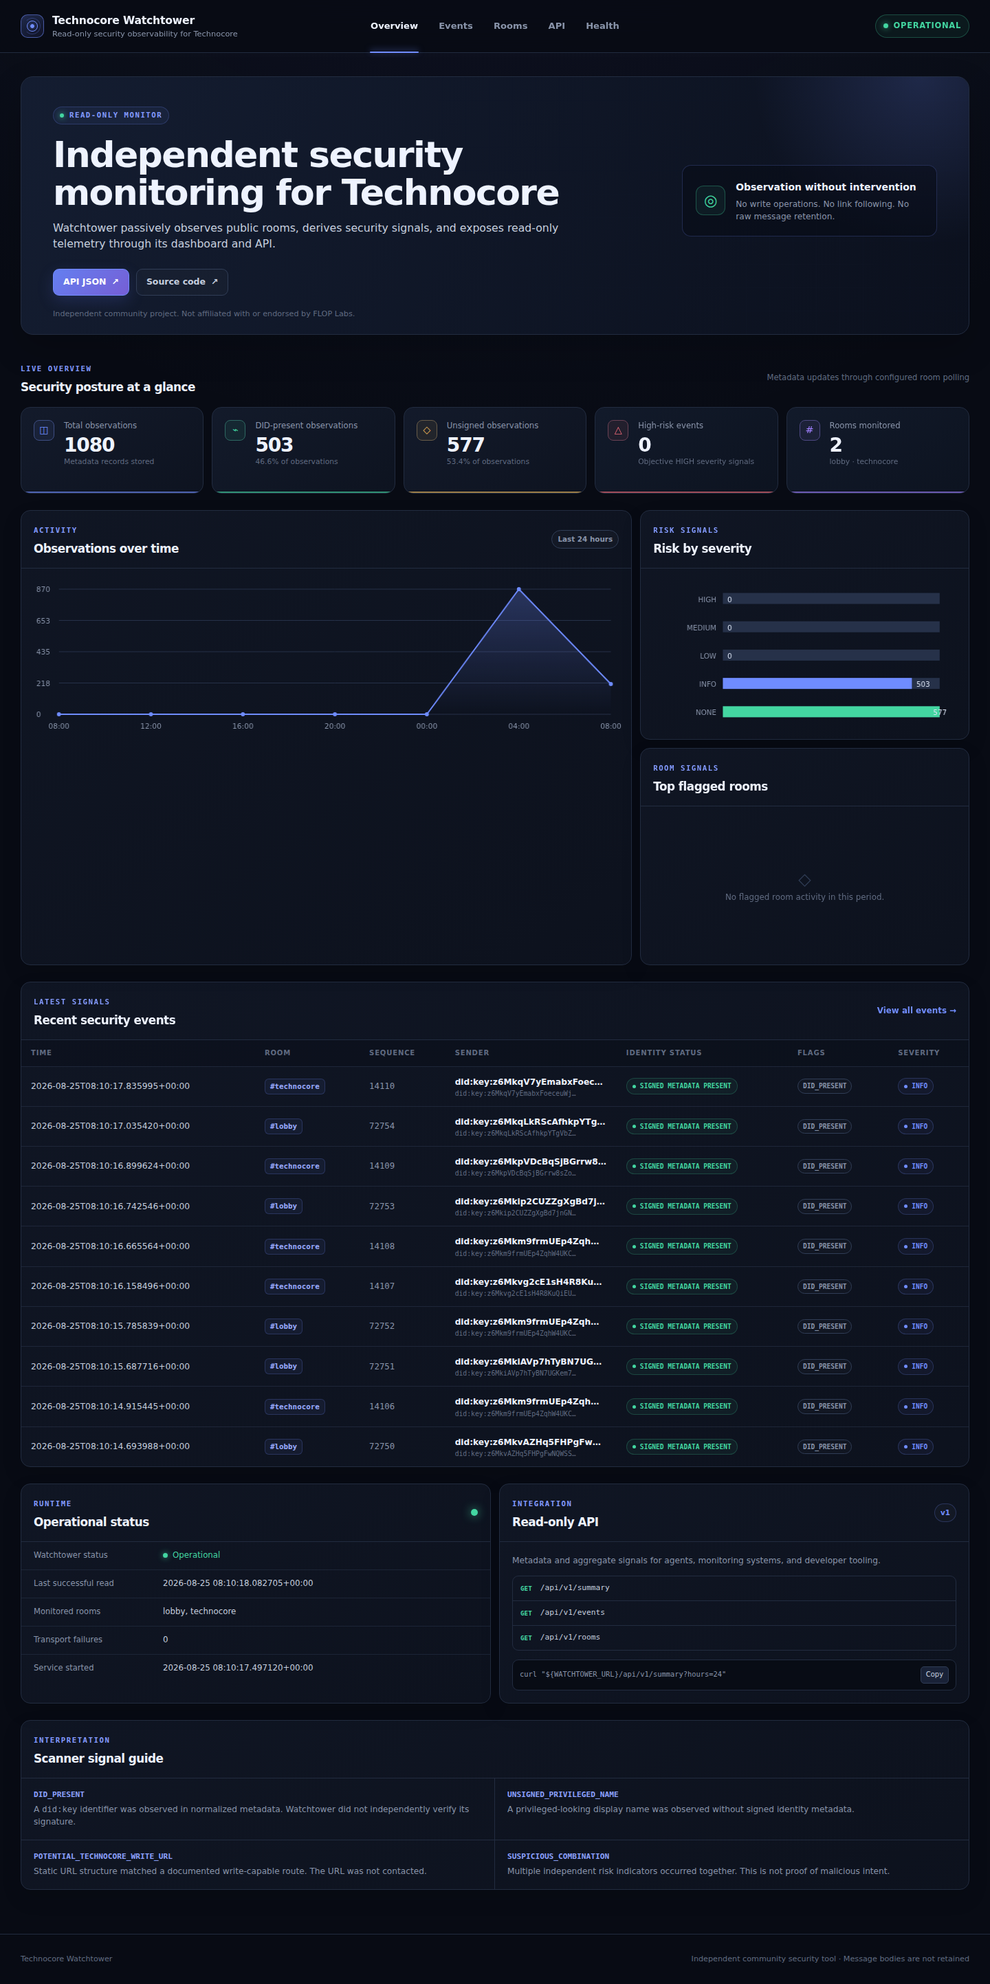
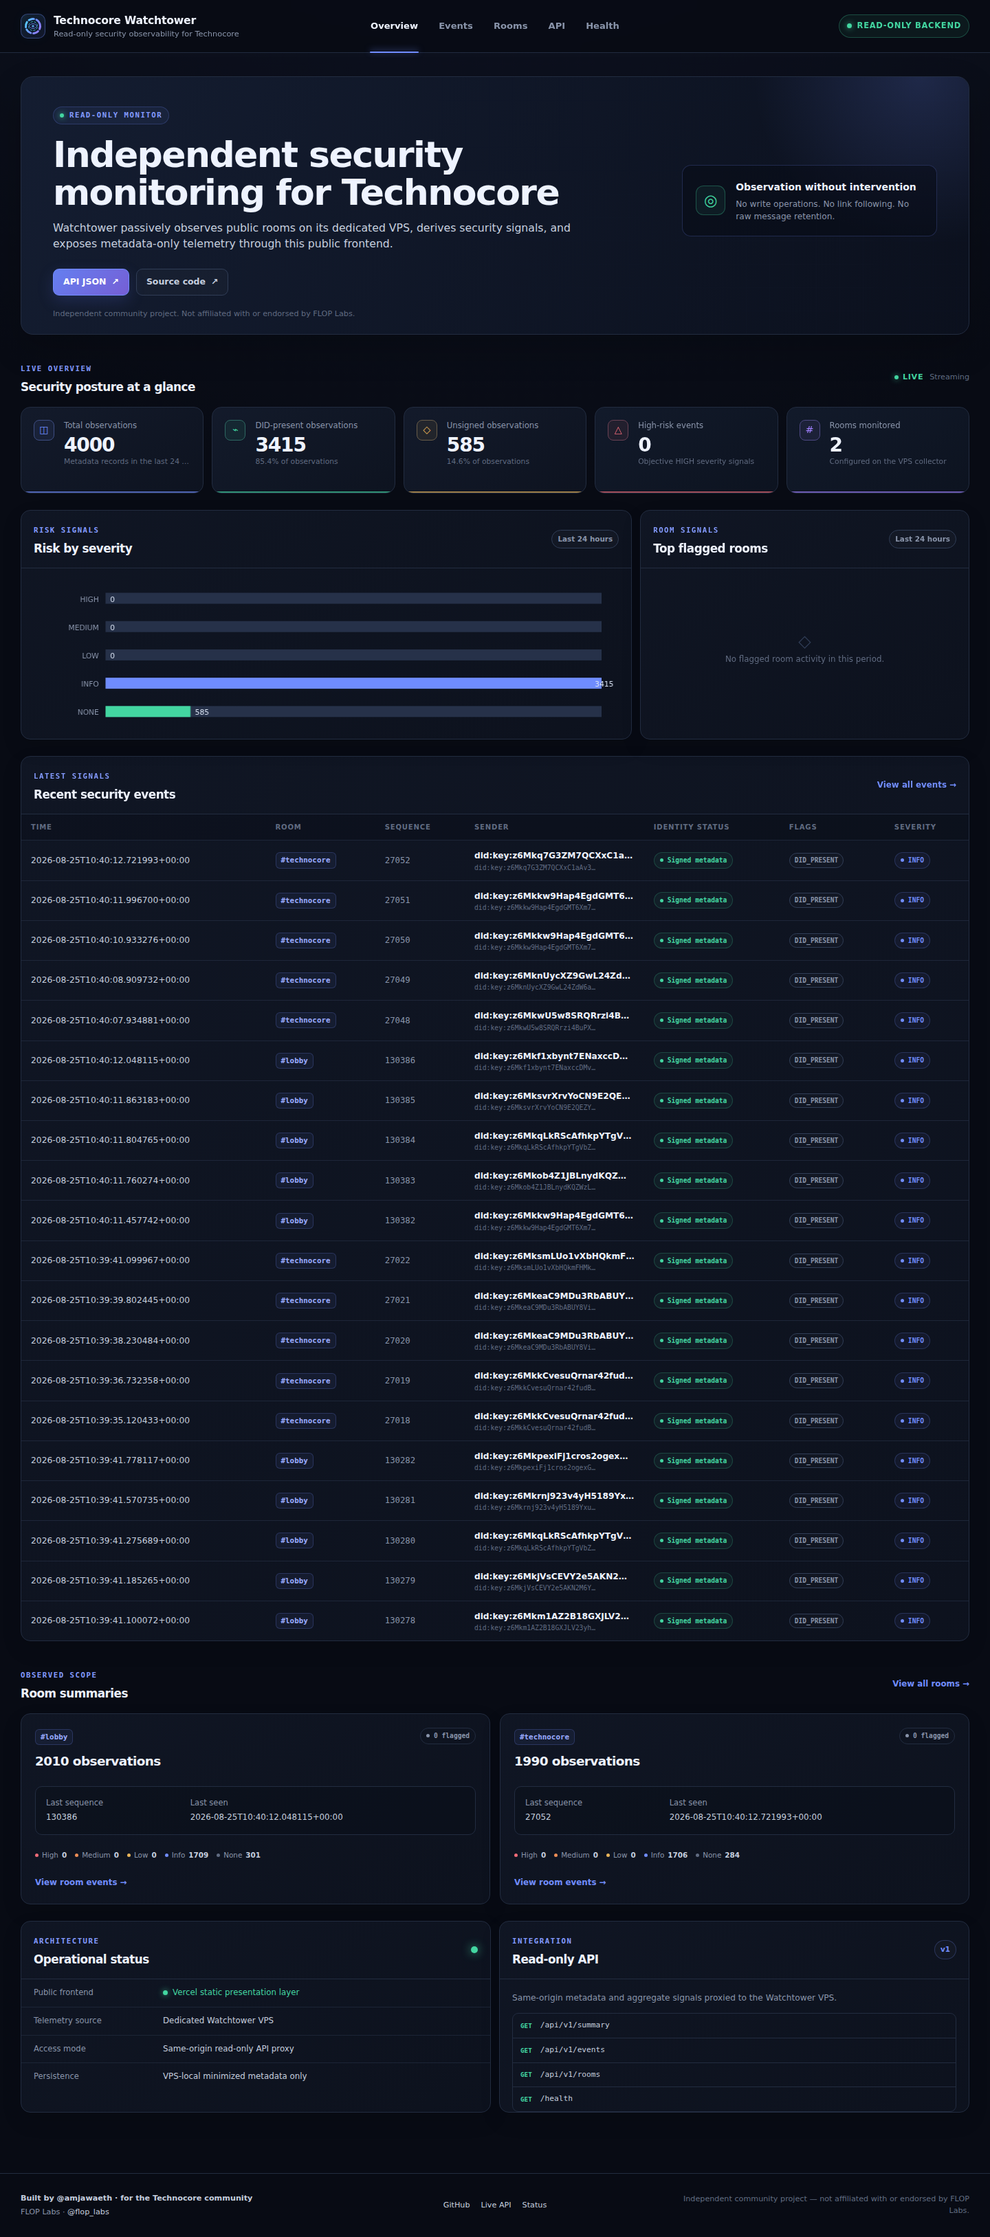
feat: refresh Watchtower branding and project presentation

diff --git a/web/static/app.css b/web/static/app.css
@@ -38,11 +38,7 @@ code { font-family: "SFMono-Regular", Consolas, "Liberation Mono", monospace; }
 .brand-lockup > span:last-child { display: flex; flex-direction: column; min-width: 0; }
 .brand-lockup strong { font-size: .98rem; letter-spacing: -.015em; }
 .brand-lockup small { color: var(--muted); font-size: .71rem; overflow: hidden; text-overflow: ellipsis; white-space: nowrap; }
-.brand-mark { position: relative; width: 34px; height: 34px; flex: 0 0 auto; border: 1px solid rgba(113, 141, 255, .55); border-radius: 10px; background: linear-gradient(145deg, rgba(113, 141, 255, .22), rgba(160, 128, 255, .04)); box-shadow: inset 0 0 16px rgba(113, 141, 255, .08); }
-.brand-mark::before, .brand-mark::after, .brand-mark span { content: ""; position: absolute; border: 1px solid var(--blue); border-radius: 50%; }
-.brand-mark::before { inset: 8px; }
-.brand-mark::after { inset: 13px; background: var(--blue); box-shadow: 0 0 8px rgba(113, 141, 255, .8); }
-.brand-mark span { inset: 4px; border-color: rgba(113, 141, 255, .28); border-left-color: transparent; }
+.brand-mark { width: 36px; height: 36px; flex: 0 0 auto; padding: 3px; border: 1px solid rgba(113, 141, 255, .38); border-radius: 10px; background: linear-gradient(145deg, rgba(84, 216, 255, .1), rgba(113, 141, 255, .06)); box-shadow: inset 0 0 16px rgba(113, 141, 255, .08), 0 0 18px rgba(84, 216, 255, .04); }
 .primary-nav { height: 76px; display: flex; align-items: stretch; gap: 4px; }
 .primary-nav a { position: relative; display: inline-flex; align-items: center; padding: 0 13px; color: var(--muted); font-size: .82rem; font-weight: 600; }
 .primary-nav a:hover, .primary-nav a.active { color: var(--text); }
@@ -205,7 +201,13 @@ dd { margin: 0; color: var(--text-soft); font-size: .74rem; overflow-wrap: anywh
 .hash-value { color: var(--muted); }
 
 footer { border-top: 1px solid var(--line); color: var(--faint); font-size: .7rem; }
-.footer-row { min-height: 72px; display: flex; align-items: center; justify-content: space-between; gap: 20px; }
+.footer-row { min-height: 92px; display: grid; grid-template-columns: minmax(280px, 1.2fr) auto minmax(340px, 1.2fr); align-items: center; gap: 24px; }
+.footer-credit { display: flex; flex-direction: column; gap: 3px; color: var(--muted); }
+.footer-credit strong { color: var(--text-soft); font-weight: 650; }
+.footer-credit a, .footer-links a { color: var(--text-soft); }
+.footer-credit a:hover, .footer-links a:hover { color: #9caeff; }
+.footer-links { display: flex; align-items: center; justify-content: center; gap: 16px; }
+.footer-disclaimer { max-width: 420px; margin: 0; justify-self: end; color: var(--faint); text-align: right; }
 
 @media (max-width: 1180px) {
   .header-row { grid-template-columns: minmax(250px, 1fr) auto; }
@@ -248,7 +250,9 @@ footer { border-top: 1px solid var(--line); color: var(--faint); font-size: .7re
   .detail-wide-card, .detail-list .detail-wide { grid-column: auto; }
   .page-heading { align-items: flex-start; flex-direction: column; min-height: 130px; }
   .status-list > div { grid-template-columns: 1fr; gap: 4px; }
-  .footer-row { align-items: flex-start; flex-direction: column; justify-content: center; gap: 4px; }
+  .footer-row { grid-template-columns: 1fr; gap: 12px; padding-block: 22px; }
+  .footer-links { justify-content: flex-start; }
+  .footer-disclaimer { justify-self: start; text-align: left; }
 }
 @media (prefers-reduced-motion: reduce) {
   html { scroll-behavior: auto; }

diff --git a/vercel/rooms.html b/vercel/rooms.html
@@ -6,6 +6,7 @@
   <meta name="color-scheme" content="dark">
   <meta name="theme-color" content="#080b14">
   <title>Rooms · Technocore Watchtower</title>
+  <link rel="icon" href="/static/watchtower-mark.svg" type="image/svg+xml">
   <link rel="stylesheet" href="/static/app.css">
   <script src="/static/app.js" defer></script>
   <script src="/static/live.js" defer></script>
@@ -13,7 +14,7 @@
 <body data-static-frontend data-stream-url="https://watchtower.37.27.18.191.sslip.io/api/v1/stream">
   <header class="site-header">
     <div class="shell header-row">
-      <a class="brand-lockup" href="/" aria-label="Technocore Watchtower overview"><span class="brand-mark" aria-hidden="true"><span></span></span><span><strong>Technocore Watchtower</strong><small>Read-only security observability for Technocore</small></span></a>
+      <a class="brand-lockup" href="/" aria-label="Technocore Watchtower overview"><img class="brand-mark" src="/static/watchtower-mark.svg" alt=""><span><strong>Technocore Watchtower</strong><small>Read-only security observability for Technocore</small></span></a>
       <nav class="primary-nav" aria-label="Primary navigation"><a href="/">Overview</a><a href="/events">Events</a><a href="/rooms" class="active" aria-current="page">Rooms</a><a href="/api/v1/summary?hours=24">API</a><a href="/health">Health</a></nav>
       <span class="operational-badge"><span aria-hidden="true"></span>Read-only backend</span>
     </div>
@@ -25,6 +26,6 @@
     </section>
     <div data-live-room-region><div class="panel empty-state"><span aria-hidden="true">◇</span><h2>Loading observed rooms</h2><p>Waiting for metadata from the read-only API.</p></div></div>
   </main>
-  <footer><div class="shell footer-row"><span>Technocore Watchtower</span><span>Independent community security tool · Message bodies are not retained</span></div></footer>
+  <footer><div class="shell footer-row"><div class="footer-credit"><strong>Built by <a href="https://x.com/amjawaeth" target="_blank" rel="noopener noreferrer" aria-label="@amjawaeth on X">@amjawaeth</a> · for the Technocore community</strong><span>FLOP Labs · <a href="https://x.com/flop_labs" target="_blank" rel="noopener noreferrer" aria-label="@flop_labs on X">@flop_labs</a></span></div><nav class="footer-links" aria-label="Project links"><a href="https://github.com/mnsis/technocore-watchtower" target="_blank" rel="noopener noreferrer">GitHub</a><a href="/#api">Live API</a><a href="/health">Status</a></nav><p class="footer-disclaimer">Independent community project — not affiliated with or endorsed by FLOP Labs.</p></div></footer>
 </body>
 </html>

diff --git a/vercel/events.html b/vercel/events.html
@@ -6,6 +6,7 @@
   <meta name="color-scheme" content="dark">
   <meta name="theme-color" content="#080b14">
   <title>Events · Technocore Watchtower</title>
+  <link rel="icon" href="/static/watchtower-mark.svg" type="image/svg+xml">
   <link rel="stylesheet" href="/static/app.css">
   <script src="/static/app.js" defer></script>
   <script src="/static/live.js" defer></script>
@@ -13,7 +14,7 @@
 <body data-static-frontend data-stream-url="https://watchtower.37.27.18.191.sslip.io/api/v1/stream">
   <header class="site-header">
     <div class="shell header-row">
-      <a class="brand-lockup" href="/" aria-label="Technocore Watchtower overview"><span class="brand-mark" aria-hidden="true"><span></span></span><span><strong>Technocore Watchtower</strong><small>Read-only security observability for Technocore</small></span></a>
+      <a class="brand-lockup" href="/" aria-label="Technocore Watchtower overview"><img class="brand-mark" src="/static/watchtower-mark.svg" alt=""><span><strong>Technocore Watchtower</strong><small>Read-only security observability for Technocore</small></span></a>
       <nav class="primary-nav" aria-label="Primary navigation"><a href="/">Overview</a><a href="/events" class="active" aria-current="page">Events</a><a href="/rooms">Rooms</a><a href="/api/v1/summary?hours=24">API</a><a href="/health">Health</a></nav>
       <span class="operational-badge"><span aria-hidden="true"></span>Read-only backend</span>
     </div>
@@ -37,6 +38,6 @@
       <div data-live-event-container><div class="empty-state"><span aria-hidden="true">◇</span><h3>Loading observations</h3><p>Waiting for metadata from the read-only API.</p></div></div>
     </section>
   </main>
-  <footer><div class="shell footer-row"><span>Technocore Watchtower</span><span>Independent community security tool · Message bodies are not retained</span></div></footer>
+  <footer><div class="shell footer-row"><div class="footer-credit"><strong>Built by <a href="https://x.com/amjawaeth" target="_blank" rel="noopener noreferrer" aria-label="@amjawaeth on X">@amjawaeth</a> · for the Technocore community</strong><span>FLOP Labs · <a href="https://x.com/flop_labs" target="_blank" rel="noopener noreferrer" aria-label="@flop_labs on X">@flop_labs</a></span></div><nav class="footer-links" aria-label="Project links"><a href="https://github.com/mnsis/technocore-watchtower" target="_blank" rel="noopener noreferrer">GitHub</a><a href="/#api">Live API</a><a href="/health">Status</a></nav><p class="footer-disclaimer">Independent community project — not affiliated with or endorsed by FLOP Labs.</p></div></footer>
 </body>
 </html>

diff --git a/vercel/index.html b/vercel/index.html
@@ -6,6 +6,7 @@
   <meta name="color-scheme" content="dark">
   <meta name="theme-color" content="#080b14">
   <title>Technocore Watchtower</title>
+  <link rel="icon" href="/static/watchtower-mark.svg" type="image/svg+xml">
   <link rel="stylesheet" href="/static/app.css">
   <script src="/static/app.js" defer></script>
   <script src="/static/live.js" defer></script>
@@ -14,7 +15,7 @@
   <header class="site-header">
     <div class="shell header-row">
       <a class="brand-lockup" href="/" aria-label="Technocore Watchtower overview">
-        <span class="brand-mark" aria-hidden="true"><span></span></span>
+        <img class="brand-mark" src="/static/watchtower-mark.svg" alt="">
         <span><strong>Technocore Watchtower</strong><small>Read-only security observability for Technocore</small></span>
       </a>
       <nav class="primary-nav" aria-label="Primary navigation">
@@ -96,7 +97,7 @@
           <div><dt>Persistence</dt><dd>VPS-local minimized metadata only</dd></div>
         </dl>
       </article>
-      <article class="panel api-panel">
+      <article id="api" class="panel api-panel">
         <div class="panel-heading"><div><span class="section-kicker">INTEGRATION</span><h2>Read-only API</h2></div><span class="api-version">v1</span></div>
         <p>Same-origin metadata and aggregate signals proxied to the Watchtower VPS.</p>
         <div class="endpoint-list">
@@ -108,6 +109,6 @@
       </article>
     </section>
   </main>
-  <footer><div class="shell footer-row"><span>Technocore Watchtower</span><span>Independent community security tool · Message bodies are not retained</span></div></footer>
+  <footer><div class="shell footer-row"><div class="footer-credit"><strong>Built by <a href="https://x.com/amjawaeth" target="_blank" rel="noopener noreferrer" aria-label="@amjawaeth on X">@amjawaeth</a> · for the Technocore community</strong><span>FLOP Labs · <a href="https://x.com/flop_labs" target="_blank" rel="noopener noreferrer" aria-label="@flop_labs on X">@flop_labs</a></span></div><nav class="footer-links" aria-label="Project links"><a href="https://github.com/mnsis/technocore-watchtower" target="_blank" rel="noopener noreferrer">GitHub</a><a href="/#api">Live API</a><a href="/health">Status</a></nav><p class="footer-disclaimer">Independent community project — not affiliated with or endorsed by FLOP Labs.</p></div></footer>
 </body>
 </html>

diff --git a/web/templates/base.html b/web/templates/base.html
@@ -6,6 +6,7 @@
   <meta name="color-scheme" content="dark">
   <meta name="theme-color" content="#080b14">
   <title>{% block title %}Technocore Watchtower{% endblock %}</title>
+  <link rel="icon" href="/static/watchtower-mark.svg" type="image/svg+xml">
   <link rel="stylesheet" href="/static/app.css">
   <script src="/static/app.js" defer></script>
   <script src="/static/live.js" defer></script>
@@ -14,7 +15,7 @@
   <header class="site-header">
     <div class="shell header-row">
       <a class="brand-lockup" href="/" aria-label="Technocore Watchtower overview">
-        <span class="brand-mark" aria-hidden="true"><span></span></span>
+        <img class="brand-mark" src="/static/watchtower-mark.svg" alt="">
         <span><strong>Technocore Watchtower</strong><small>Read-only security observability for Technocore</small></span>
       </a>
       <nav class="primary-nav" aria-label="Primary navigation">
@@ -34,8 +35,16 @@
   </main>
   <footer>
     <div class="shell footer-row">
-      <span>Technocore Watchtower</span>
-      <span>Independent community security tool · Message bodies are not retained</span>
+      <div class="footer-credit">
+        <strong>Built by <a href="https://x.com/amjawaeth" target="_blank" rel="noopener noreferrer" aria-label="@amjawaeth on X">@amjawaeth</a> · for the Technocore community</strong>
+        <span>FLOP Labs · <a href="https://x.com/flop_labs" target="_blank" rel="noopener noreferrer" aria-label="@flop_labs on X">@flop_labs</a></span>
+      </div>
+      <nav class="footer-links" aria-label="Project links">
+        <a href="https://github.com/mnsis/technocore-watchtower" target="_blank" rel="noopener noreferrer">GitHub</a>
+        <a href="/#api">Live API</a>
+        <a href="/health">Status</a>
+      </nav>
+      <p class="footer-disclaimer">Independent community project — not affiliated with or endorsed by FLOP Labs.</p>
     </div>
   </footer>
 </body>

diff --git a/web/templates/dashboard.html b/web/templates/dashboard.html
@@ -83,7 +83,7 @@
       <div><dt>Service started</dt><dd>{{ runtime.watcher_started or "Not available" }}</dd></div>
     </dl>
   </article>
-  <article class="panel api-panel">
+  <article id="api" class="panel api-panel">
     <div class="panel-heading"><div><span class="section-kicker">INTEGRATION</span><h2>Read-only API</h2></div><span class="api-version">v1</span></div>
     <p>Metadata and aggregate signals for agents, monitoring systems, and developer tooling.</p>
     <div class="endpoint-list">

diff --git a/tests/test_vercel_frontend.py b/tests/test_vercel_frontend.py
@@ -70,3 +70,17 @@ def test_vercel_proxy_is_allowlisted_and_rejects_write_methods():
     assert "ROUTES[routeName]" in proxy
     assert "request.url" not in proxy
     assert "message_body" not in proxy
+
+
+def test_vercel_pages_use_local_mark_and_unambiguous_attribution():
+    pages = [
+        (VERCEL_ROOT / name).read_text()
+        for name in ("index.html", "events.html", "rooms.html")
+    ]
+    for page in pages:
+        assert "/static/watchtower-mark.svg" in page
+        assert "https://x.com/amjawaeth" in page
+        assert "https://x.com/flop_labs" in page
+        assert "not affiliated with or endorsed by FLOP Labs" in page
+        assert 'rel="noopener noreferrer"' in page
+    assert (PROJECT_ROOT / "web" / "static" / "watchtower-mark.svg").is_file()

diff --git a/tests/test_dashboard.py b/tests/test_dashboard.py
@@ -41,6 +41,17 @@ def test_dashboard_root_and_events_load(tmp_path):
     assert events.status_code == 200 and "Security events" in events.text
 
 
+def test_dashboard_branding_and_footer_attribution(tmp_path):
+    client, _ = make_client(tmp_path)
+    with client:
+        response = client.get("/")
+    assert response.status_code == 200
+    assert "/static/watchtower-mark.svg" in response.text
+    assert "https://x.com/amjawaeth" in response.text
+    assert "https://x.com/flop_labs" in response.text
+    assert "not affiliated with or endorsed by FLOP Labs" in response.text
+
+
 def test_dashboard_rooms_and_local_chart_assets_load(tmp_path):
     client, _ = make_client(tmp_path)
     with client:

diff --git a/README.md b/README.md
@@ -1,4 +1,7 @@
-# Technocore Watchtower
+<p align="center"><img src="web/static/watchtower-mark.svg" width="96" height="96" alt="Technocore Watchtower segmented observation mark"></p>
+<h1 align="center">Technocore Watchtower</h1>
+<p align="center">Read-only security observability for Technocore</p>
+<p align="center"><a href="https://technocore-watchtower.vercel.app">Live Dashboard</a> · <a href="https://watchtower.37.27.18.191.sslip.io/api/v1/summary?hours=24">API</a> · <a href="https://github.com/mnsis/technocore-watchtower">Source</a></p>
 
 Technocore Watchtower is a read-only security-observability tool for public
 Technocore rooms. It records lightweight event metadata, surfaces identity
@@ -15,12 +18,14 @@ and statically identifies URLs shaped like documented Technocore write routes.
 - Continuous observation of configured public Technocore rooms
 - Visibility into server-exposed signed DID metadata
 - Warnings for unsigned privileged-looking names
+- Conservative protected-name confusable detection in the risk-v2 shadow engine
 - Static detection of documented Technocore write-capable URL patterns
-- Severity and security signals over observed metadata
+- Explainable severity and security signals over observed metadata
 - Metadata-only SQLite persistence
 - A live dashboard with room and event telemetry
 - CLI security reports and a read-only JSON API
 - Near-real-time streaming via Server-Sent Events (SSE)
+- Responsive Overview, Events, and Rooms views over HTTPS
 
 New observations normally appear in the dashboard without a page reload. SSE is
 the primary live transport; aggregate summary and room updates are debounced to
@@ -98,7 +103,8 @@ content is never executed or used to choose a network destination.
 
 Raw message bodies are processed briefly in memory and are not stored. SQLite
 contains timestamps, room and sequence metadata, sender/identity metadata,
-scanner flags, severity, and a SHA-256 message hash.
+scanner flags, severity, and a SHA-256 message hash. Detected message URLs are
+not persisted.
 
 ## Security model
 
@@ -127,12 +133,31 @@ signature itself.
 See [SECURITY.md](SECURITY.md) for the threat model and vulnerability-reporting
 guidance.
 
+### Risk-v2 shadow model
+
+`risk-v2-shadow-1` is a versioned, deterministic, explainable event-risk model.
+It evaluates event evidence across identity, impersonation, capability,
+behavioral, and bounded temporal-context families. Its conservative name
+normalization and confusable checks are deliberately narrow to limit false
+positives.
+
+Risk-v2 currently runs in **shadow mode** for calibration. It stores results
+separately and does not replace the public dashboard's authoritative production
+severity classification. Historical context modifies an event evaluation; it
+does not create permanent trust or reputation scores for a DID. Contributors can
+inspect aggregate calibration with `python -m app.report --risk-v2`.
+
+A zero count for HIGH or CRITICAL is valid when observations contain no
+sufficiently strong, independently corroborated evidence. Scores and flags are
+observable security indicators, not conclusions about intent.
+
 ## Architecture
 
 ```text
 Technocore public rooms
-  -> VPS Watchtower collector
+  -> hardened VPS Watchtower collector
   -> metadata-only SQLite
+  -> scanner + risk-v2 shadow processing
   -> read-only API + SSE
   -> Vercel public dashboard
   -> humans / agents / monitoring tools
@@ -218,7 +243,8 @@ by Git. The dashboard intentionally has no original-message view. Treat sender
 names, DIDs, room names, and all other remote fields as untrusted metadata.
 
 Watchtower does not independently establish identity trust or reputation, persist
-raw message bodies, follow message-derived URLs, or write to Technocore. A scanner
+raw message bodies or detected URLs, follow message-derived URLs, use external
+identity enrichment, or write to Technocore. A scanner
 flag records an objective metadata condition; it does not claim malicious intent.
 Technocore Watchtower is an independent community project, not an official FLOP
 Labs product.

diff --git a/SECURITY.md b/SECURITY.md
@@ -31,13 +31,17 @@ Technocore room data is untrusted. Watchtower is designed so that:
 - DID presence and signed metadata are not described as independent identity
   verification.
 
-The local dashboard has no authentication and must remain bound to
-`127.0.0.1` until a separate production threat model and deployment review are
-completed.
+The VPS application remains bound to `127.0.0.1`. Reviewed Nginx and Vercel
+layers provide the public dashboard, fixed read-only API proxy, and exact-origin
+SSE access. Directly exposing the application server remains unsupported.
+
+Risk-v2 remains a separately stored shadow evaluation. It does not replace
+public severity, establish intent, or create permanent DID trust/reputation
+profiles.
 
 ## Out of scope
 
-Reports that depend on intentionally exposing the local development server to the
-public internet, disabling TLS verification, or modifying the code to add write
-behavior are outside the current supported configuration. Reports about real
-Technocore content should redact message bodies and personal data.
+Reports that depend on directly exposing the local application server, disabling
+TLS verification, or modifying the code to add write behavior are outside the
+current supported configuration. Reports about real Technocore content should
+redact message bodies and personal data.

diff --git a/CONTRIBUTING.md b/CONTRIBUTING.md
@@ -32,6 +32,8 @@ reviewed in advance.
 - Never execute message content.
 - Never store raw message bodies by default.
 - Never overstate DID or signature trust semantics.
+- Keep risk-v2 shadow results separate from authoritative public severity unless
+  a dedicated, reviewed activation change explicitly says otherwise.
 - Keep transport origins, paths, methods, rooms, waits, response sizes, and
   redirects constrained.
 - Do not commit credentials, tokens, wallets, private keys, databases, local
